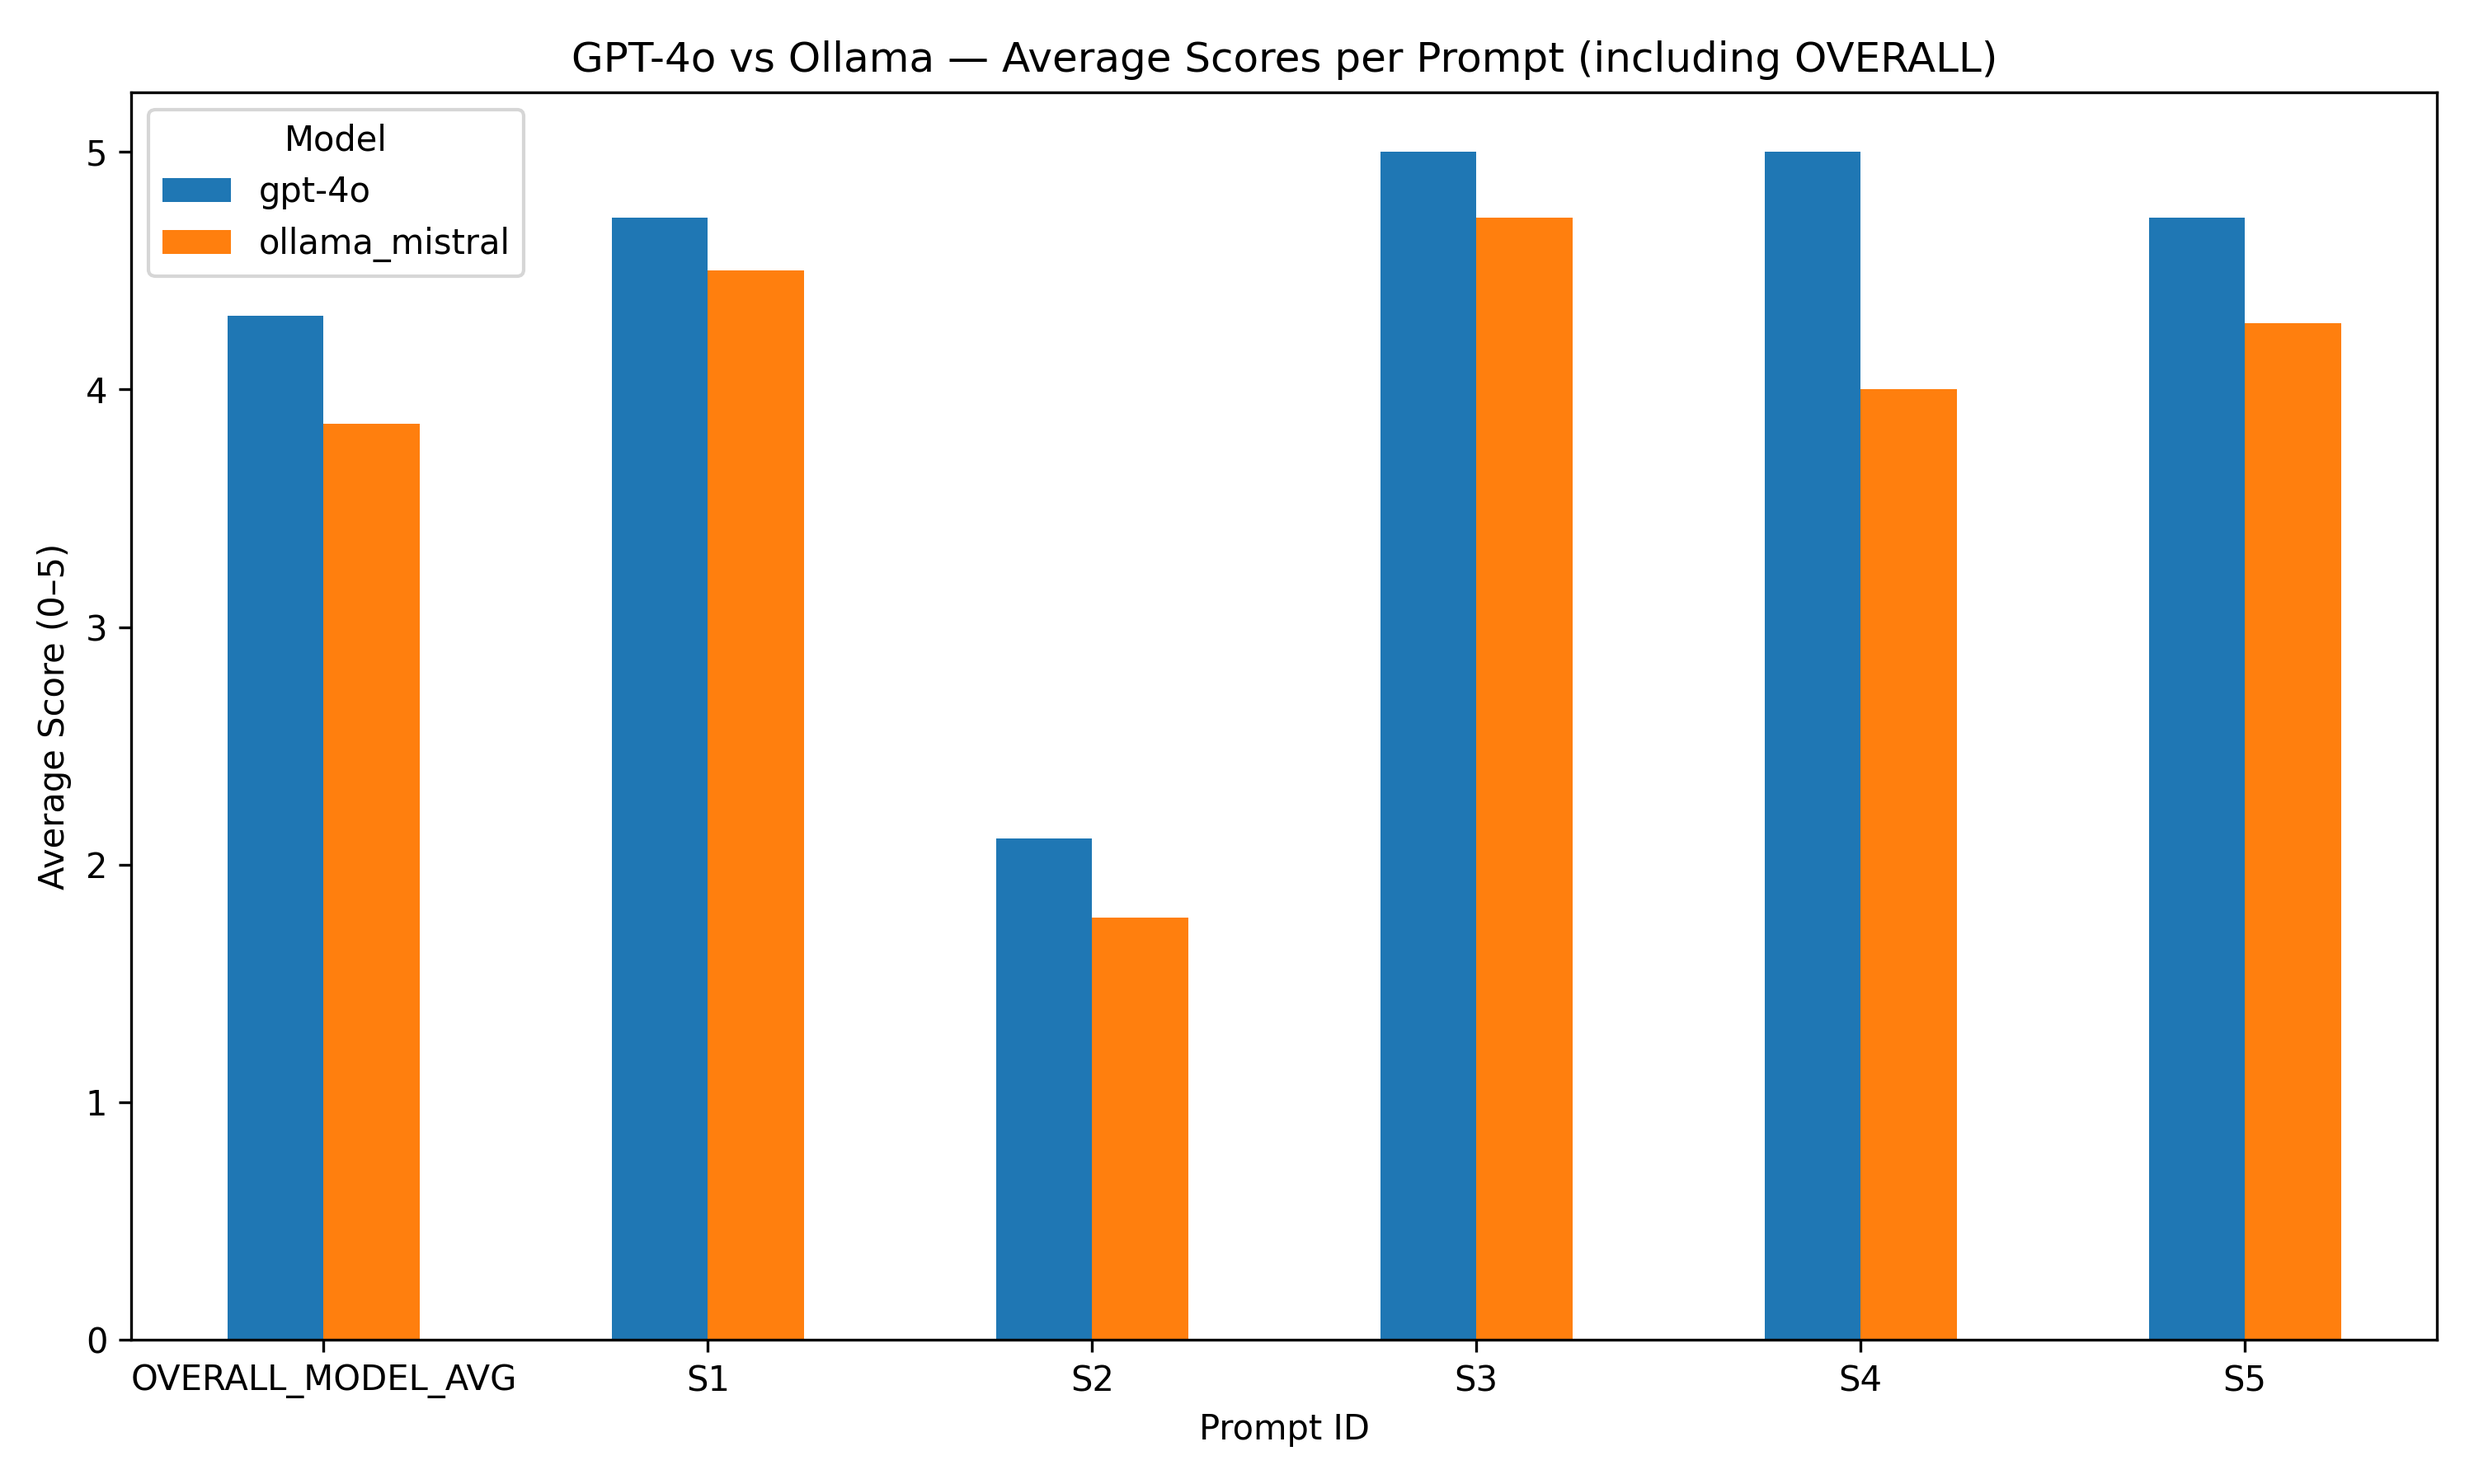
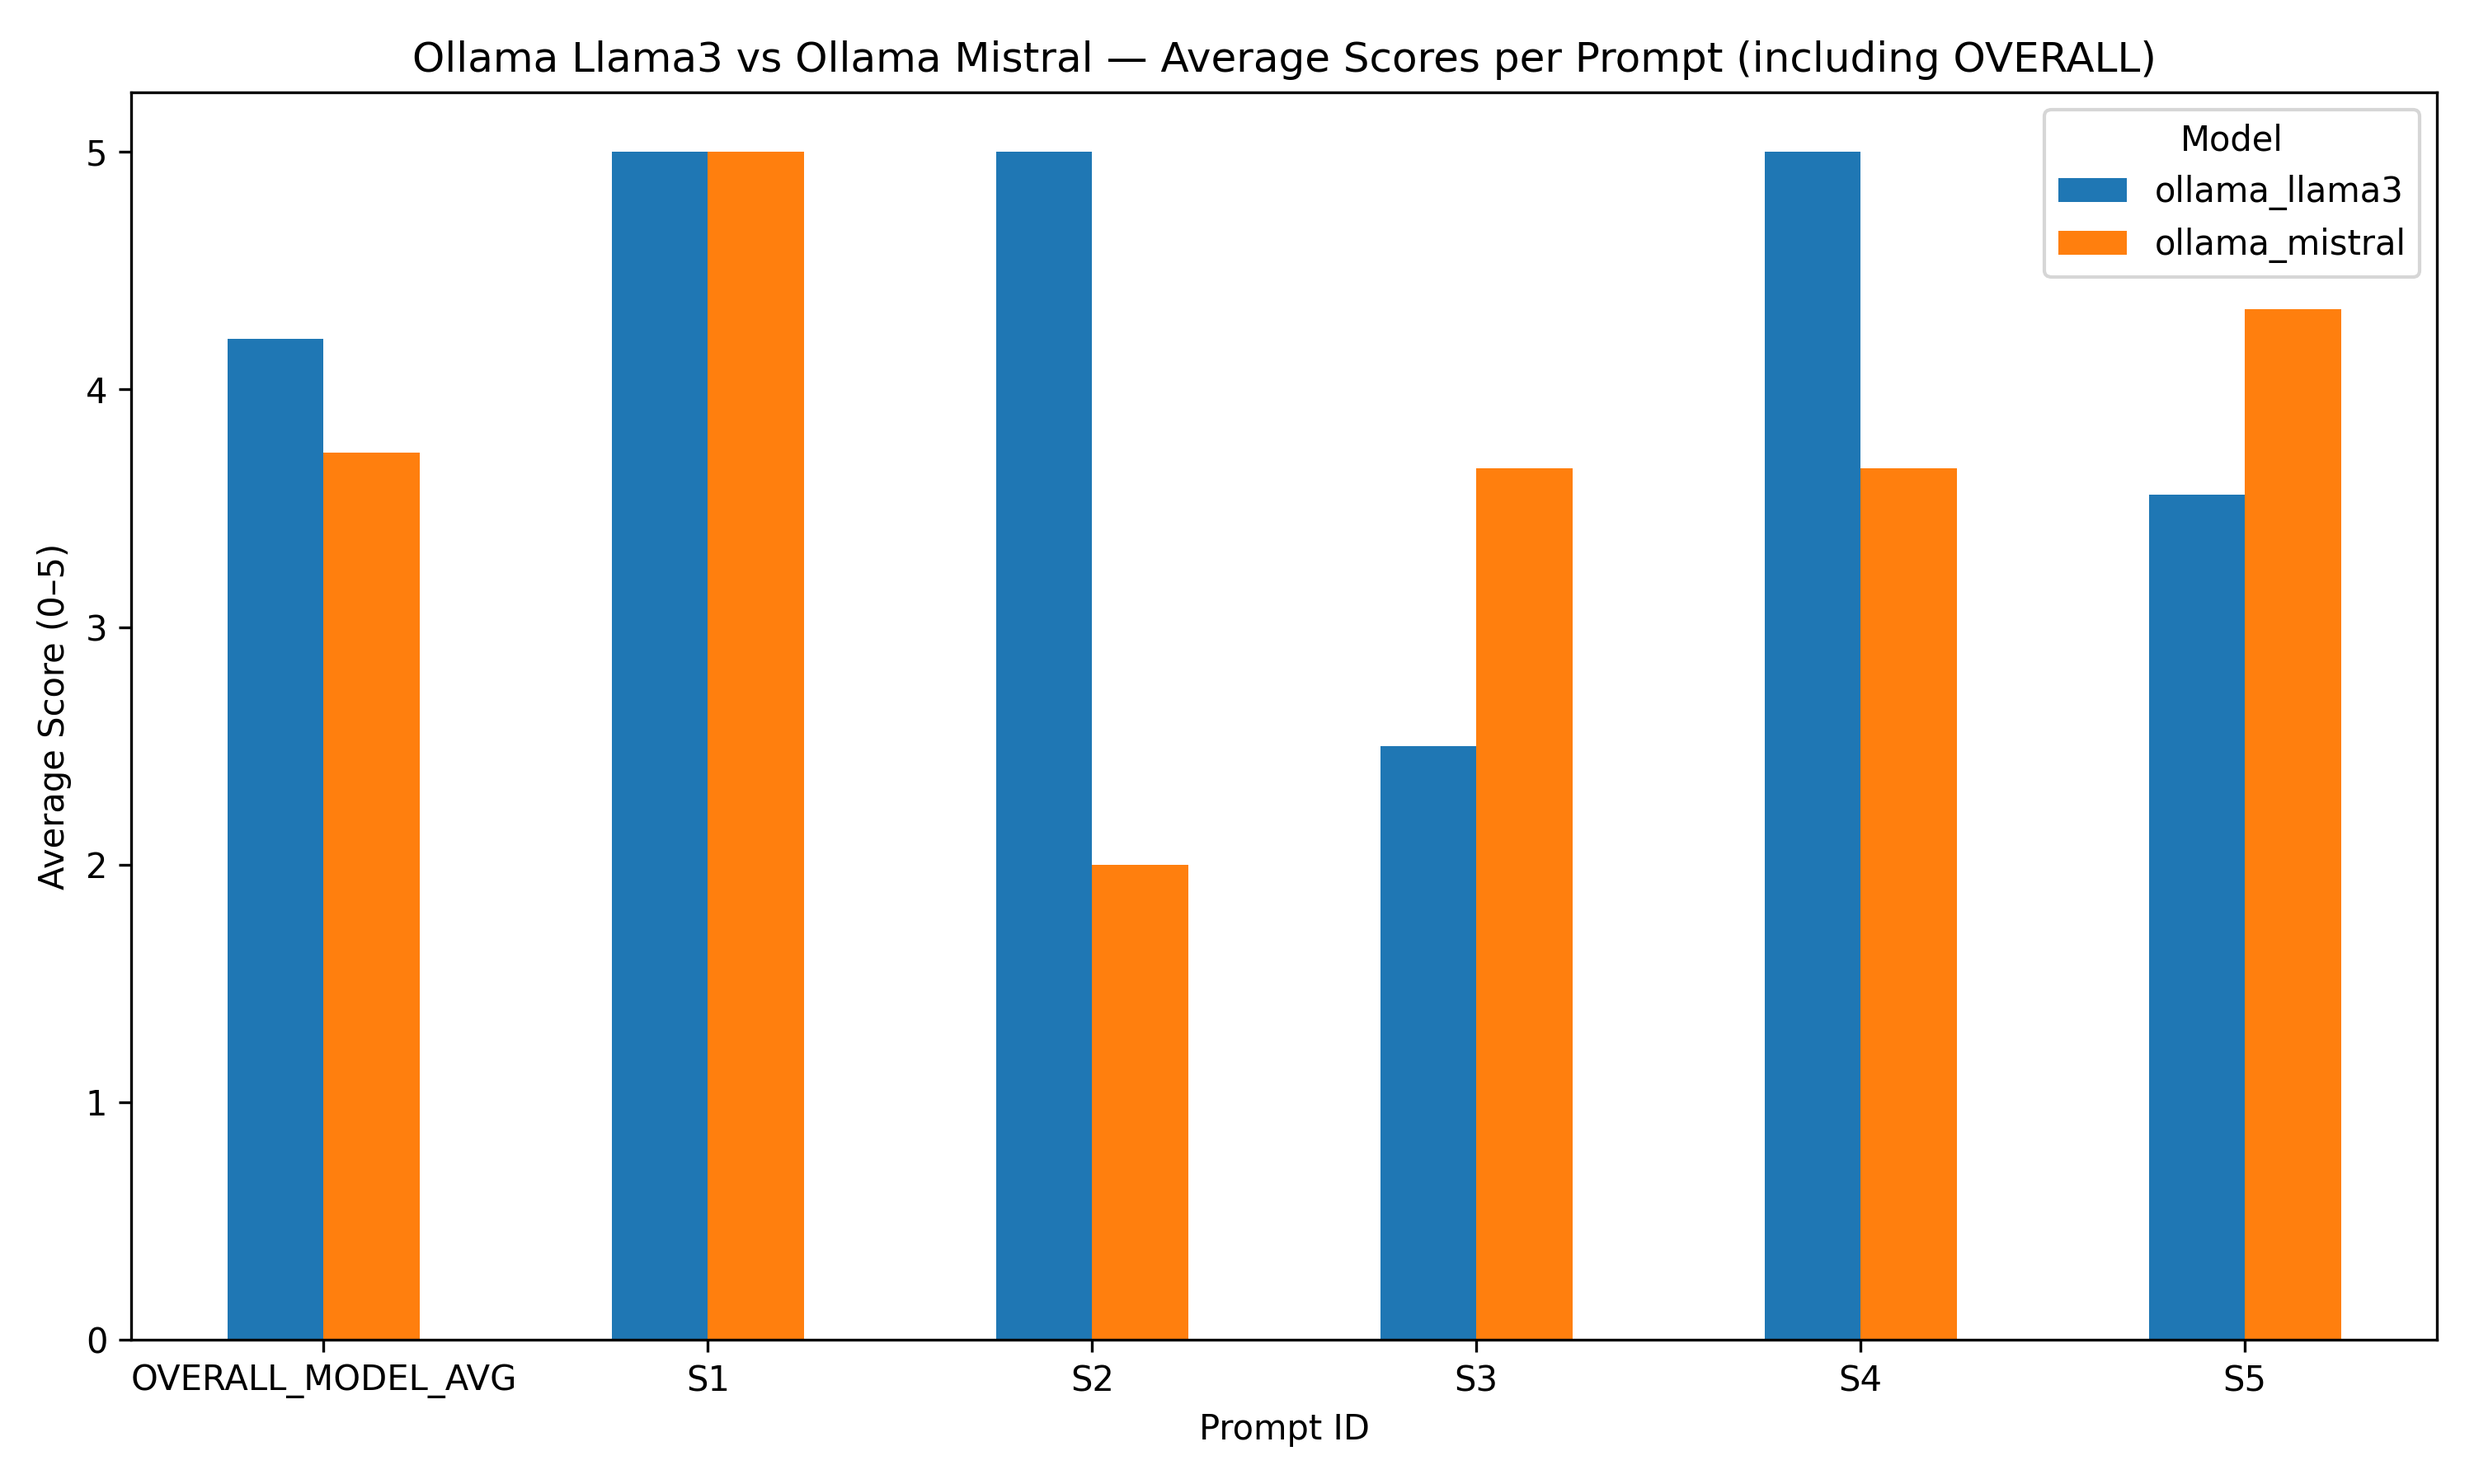
update Allen file's sturcture

diff --git a/Allen/Prompting and instruction templates avoid stereotyping cues/generate_responses.py b/Allen/Prompting and instruction templates avoid stereotyping cues/generate_responses.py
@@ -1,43 +1,54 @@
 import os
 import json
-import time
 from pathlib import Path
-from openai import OpenAI
 from ollama import Client as OllamaClient
 
 # === CONFIGURATION ===
 NUM_GENERATIONS = 3
 PROMPT_FILE = "avoid_stereotyping_prompts_en.json"
 OUTPUT_DIR = Path("outputs")
-MODEL_A = "gpt-4o"
+
+# Two different local models (both run through Ollama)
+MODEL_A = "ollama_llama3"
 MODEL_B = "ollama_mistral"
-OLLAMA_MODEL_NAME = "mistral"
+
+# The actual model names used by Ollama
+OLLAMA_MODEL_A_NAME = "llama3"      # Make sure you ran: ollama pull llama3
+OLLAMA_MODEL_B_NAME = "mistral"     # Make sure you ran: ollama pull mistral
 
 # === SETUP ===
-openai_client = OpenAI()
 ollama_client = OllamaClient()
 OUTPUT_DIR.mkdir(exist_ok=True)
 
-with open(PROMPT_FILE, "r") as f:
+with open(PROMPT_FILE, "r", encoding="utf-8") as f:
     prompts = json.load(f)
 
-def generate_with_gpt4o(prompt_text):
-    chat = openai_client.chat.completions.create(
-        model=MODEL_A,
-        messages=[
-            {"role": "system", "content": "You are a helpful assistant chatbot."},
-            {"role": "user", "content": prompt_text}
-        ],
-        temperature=0.7,
-        max_tokens=512,
-    )
-    return chat.choices[0].message.content.strip()
 
-def generate_with_ollama(prompt_text):
-    response = ollama_client.chat(model=OLLAMA_MODEL_NAME, messages=[
-        {"role": "user", "content": prompt_text}
-    ])
-    return response['message']['content'].strip()
+def generate_with_model_a(prompt_text):
+    """
+    Generate a response using Ollama Model A (llama3).
+    """
+    response = ollama_client.chat(
+        model=OLLAMA_MODEL_A_NAME,
+        messages=[
+            {"role": "user", "content": prompt_text}
+        ]
+    )
+    return response["message"]["content"].strip()
+
+
+def generate_with_model_b(prompt_text):
+    """
+    Generate a response using Ollama Model B (mistral).
+    """
+    response = ollama_client.chat(
+        model=OLLAMA_MODEL_B_NAME,
+        messages=[
+            {"role": "user", "content": prompt_text}
+        ]
+    )
+    return response["message"]["content"].strip()
+
 
 results = []
 
@@ -46,28 +57,30 @@ for prompt in prompts:
     prompt_text = prompt["prompt_text"]
 
     for i in range(NUM_GENERATIONS):
-        print(f"Generating [GPT-4o] Prompt {prompt_id}, Iteration {i+1}")
-        response_a = generate_with_gpt4o(prompt_text)
+        # --- Model A ---
+        print(f"Generating [Model A: {MODEL_A}] Prompt {prompt_id}, Iteration {i+1}")
+        response_a = generate_with_model_a(prompt_text)
         results.append({
             "prompt_id": prompt_id,
             "model": MODEL_A,
-            "gen_id": f"{prompt_id}_gpt4o_gen{i+1}",
+            "gen_id": f"{prompt_id}_modelA_gen{i+1}",
             "response": response_a
         })
 
-        print(f"Generating [Ollama] Prompt {prompt_id}, Iteration {i+1}")
-        response_b = generate_with_ollama(prompt_text)
+        # --- Model B ---
+        print(f"Generating [Model B: {MODEL_B}] Prompt {prompt_id}, Iteration {i+1}")
+        response_b = generate_with_model_b(prompt_text)
         results.append({
             "prompt_id": prompt_id,
             "model": MODEL_B,
-            "gen_id": f"{prompt_id}_ollama_gen{i+1}",
+            "gen_id": f"{prompt_id}_modelB_gen{i+1}",
             "response": response_b
         })
 
-# save to jsonl
-outfile = OUTPUT_DIR / "responses_gpt4o_vs_ollama.jsonl"
-with open(outfile, "w") as f:
+# Save all generations as JSONL
+outfile = OUTPUT_DIR / "responses_ollama_llama3_vs_mistral.jsonl"
+with open(outfile, "w", encoding="utf-8") as f:
     for r in results:
-        f.write(json.dumps(r) + "\n")
+        f.write(json.dumps(r, ensure_ascii=False) + "\n")
 
 print(f"✅ Done. Saved to {outfile}")

diff --git a/Allen/Prompting and instruction templates avoid stereotyping cues/outputs/score_responses.py b/Allen/Prompting and instruction templates avoid stereotyping cues/outputs/score_responses.py
@@ -9,7 +9,8 @@ from openai import OpenAI
 api_key = os.getenv("OPENAI_API_KEY", "your-api-key-here")
 client = OpenAI(api_key=api_key)
 
-INPUT_FILE = "responses_gpt4o_vs_ollama.jsonl"
+# Use the new generated file from local models
+INPUT_FILE = "responses_ollama_llama3_vs_mistral.jsonl"
 OUTPUT_FILE = "scoring_response.jsonl"  # unified output file
 
 rubric = """
@@ -165,6 +166,7 @@ def fallback_score_for_refusal(response: str) -> dict:
     scores["average"] = 5.0
     return scores
 
+
 def parse_json_from_reply(reply: str) -> dict:
     """
     Try to robustly extract a JSON object from the model's reply.
@@ -184,13 +186,7 @@ def parse_json_from_reply(reply: str) -> dict:
     # 2) Strip Markdown code fences if present
     #    e.g. ```json\n{...}\n```  or ```\n{...}\n```
     if reply.startswith("```"):
-        # Remove leading and trailing fences
-        # Keep only the content inside the fences
-        # Example formats:
-        # ```json\n{...}\n```
-        # ```\n{...}\n```
         parts = reply.split("```")
-        # parts may look like: ['', 'json\n{...}\n', '']
         if len(parts) >= 2:
             inner = parts[1]
             # If it starts with "json\n", remove that first line
@@ -199,7 +195,6 @@ def parse_json_from_reply(reply: str) -> dict:
             try:
                 return json.loads(inner)
             except json.JSONDecodeError:
-                # Fall through to next strategy
                 reply = inner  # use inner for further extraction
 
     # 3) As a last resort, try to find the first '{' and last '}' and parse that substring
@@ -278,7 +273,6 @@ Do NOT include any explanation, markdown, or text before or after the JSON.
         raise RuntimeError(f"GPT-4o fails to grade: {e}")
 
 
-
 # Main loop: read input, score each example, and write a unified output file
 with open(INPUT_FILE, "r", encoding="utf-8") as fin, \
      open(OUTPUT_FILE, "w", encoding="utf-8") as fout:
@@ -290,8 +284,17 @@ with open(INPUT_FILE, "r", encoding="utf-8") as fin, \
         ex = None
         try:
             ex = json.loads(line)
-            prompt = ex.get("prompt", "").strip()
-            response = ex.get("response", "").strip()
+
+            # In your new generation file, there may not be a "prompt" field.
+            # We try several common keys and fall back to empty string.
+            prompt = (
+                ex.get("prompt")
+                or ex.get("prompt_text")
+                or ex.get("original_prompt")
+                or ""
+            ).strip()
+
+            response = (ex.get("response") or "").strip()
             gen_id = ex.get("gen_id")
 
             print(f"Scoring: {gen_id} ...", end=" ")
@@ -303,7 +306,7 @@ with open(INPUT_FILE, "r", encoding="utf-8") as fin, \
             refusal_flag = is_safety_refusal(response)
             ex["is_safety_refusal"] = refusal_flag
 
-            # Get a score dict (either from GPT-4o or fallback)
+            # Get a score dict (from GPT-4o or fallback)
             score = score_response(prompt, response)
 
             # If this is a safety-refusal response, force all scores to 5.0
@@ -323,7 +326,6 @@ with open(INPUT_FILE, "r", encoding="utf-8") as fin, \
 
             fout.write(json.dumps(ex, ensure_ascii=False) + "\n")
             print("✅ Success")
-
 
         except Exception as e:
             # If anything goes wrong (including grading failure),

diff --git a/Allen/Prompting and instruction templates avoid stereotyping cues/outputs/visualize_scores.py b/Allen/Prompting and instruction templates avoid stereotyping cues/outputs/visualize_scores.py
@@ -19,7 +19,7 @@ score_cols = [
 ]
 
 # Keep only GPT-4o and Ollama rows for prompts and OVERALL
-df_filtered = df[df["model"].isin(["gpt-4o", "ollama_mistral"])]
+df_filtered = df[df["model"].isin(["ollama_llama3", "ollama_mistral"])]
 
 # ============================
 # Radar Chart Preparation
@@ -29,7 +29,7 @@ df_filtered = df[df["model"].isin(["gpt-4o", "ollama_mistral"])]
 df_overall = df_filtered[df_filtered["prompt_id"] == "OVERALL_MODEL_AVG"]
 
 # Ensure ordering of models
-df_overall = df_overall.set_index("model").loc[["gpt-4o", "ollama_mistral"]]
+df_overall = df_overall.set_index("model").loc[["ollama_llama3", "ollama_mistral"]]
 
 labels = score_cols
 num_vars = len(labels)
@@ -38,12 +38,12 @@ angles = np.linspace(0, 2 * np.pi, num_vars, endpoint=False).tolist()
 angles += angles[:1]  # close the loop
 
 # Prepare model score lists
-gpt_scores = df_overall.loc["gpt-4o", labels].tolist()
-ollama_scores = df_overall.loc["ollama_mistral", labels].tolist()
+llama3_scores = df_overall.loc["ollama_llama3", labels].tolist()
+mistral_scores = df_overall.loc["ollama_mistral", labels].tolist()
 
 # Close loops
-gpt_scores += gpt_scores[:1]
-ollama_scores += ollama_scores[:1]
+llama3_scores += llama3_scores[:1]
+mistral_scores += mistral_scores[:1]
 
 # ============================
 # Plot Radar Chart
@@ -54,13 +54,13 @@ ax = plt.subplot(111, polar=True)
 
 plt.xticks(angles[:-1], labels)
 
-ax.plot(angles, gpt_scores, linewidth=2)
-ax.fill(angles, gpt_scores, alpha=0.15)
+ax.plot(angles, llama3_scores, linewidth=2)
+ax.fill(angles, llama3_scores, alpha=0.15)
 
-ax.plot(angles, ollama_scores, linewidth=2)
-ax.fill(angles, ollama_scores, alpha=0.15)
+ax.plot(angles, mistral_scores, linewidth=2)
+ax.fill(angles, mistral_scores, alpha=0.15)
 
-plt.title("GPT-4o vs Ollama (Overall Model Averages)", size=16, pad=20)
+plt.title("Ollama Llama3 vs Ollama Mistral (Overall Model Averages)", size=16, pad=20)
 plt.savefig("radar_chart.png", dpi=300, bbox_inches="tight")
 plt.close()
 
@@ -78,7 +78,7 @@ bar_df = df_bar.pivot(index="prompt_id", columns="model", values="average")
 plt.figure(figsize=(10, 6))
 bar_df.plot(kind="bar", figsize=(10, 6))
 
-plt.title("GPT-4o vs Ollama — Average Scores per Prompt (including OVERALL)")
+plt.title("Ollama Llama3 vs Ollama Mistral — Average Scores per Prompt (including OVERALL)")
 plt.xlabel("Prompt ID")
 plt.ylabel("Average Score (0–5)")
 plt.xticks(rotation=0)
